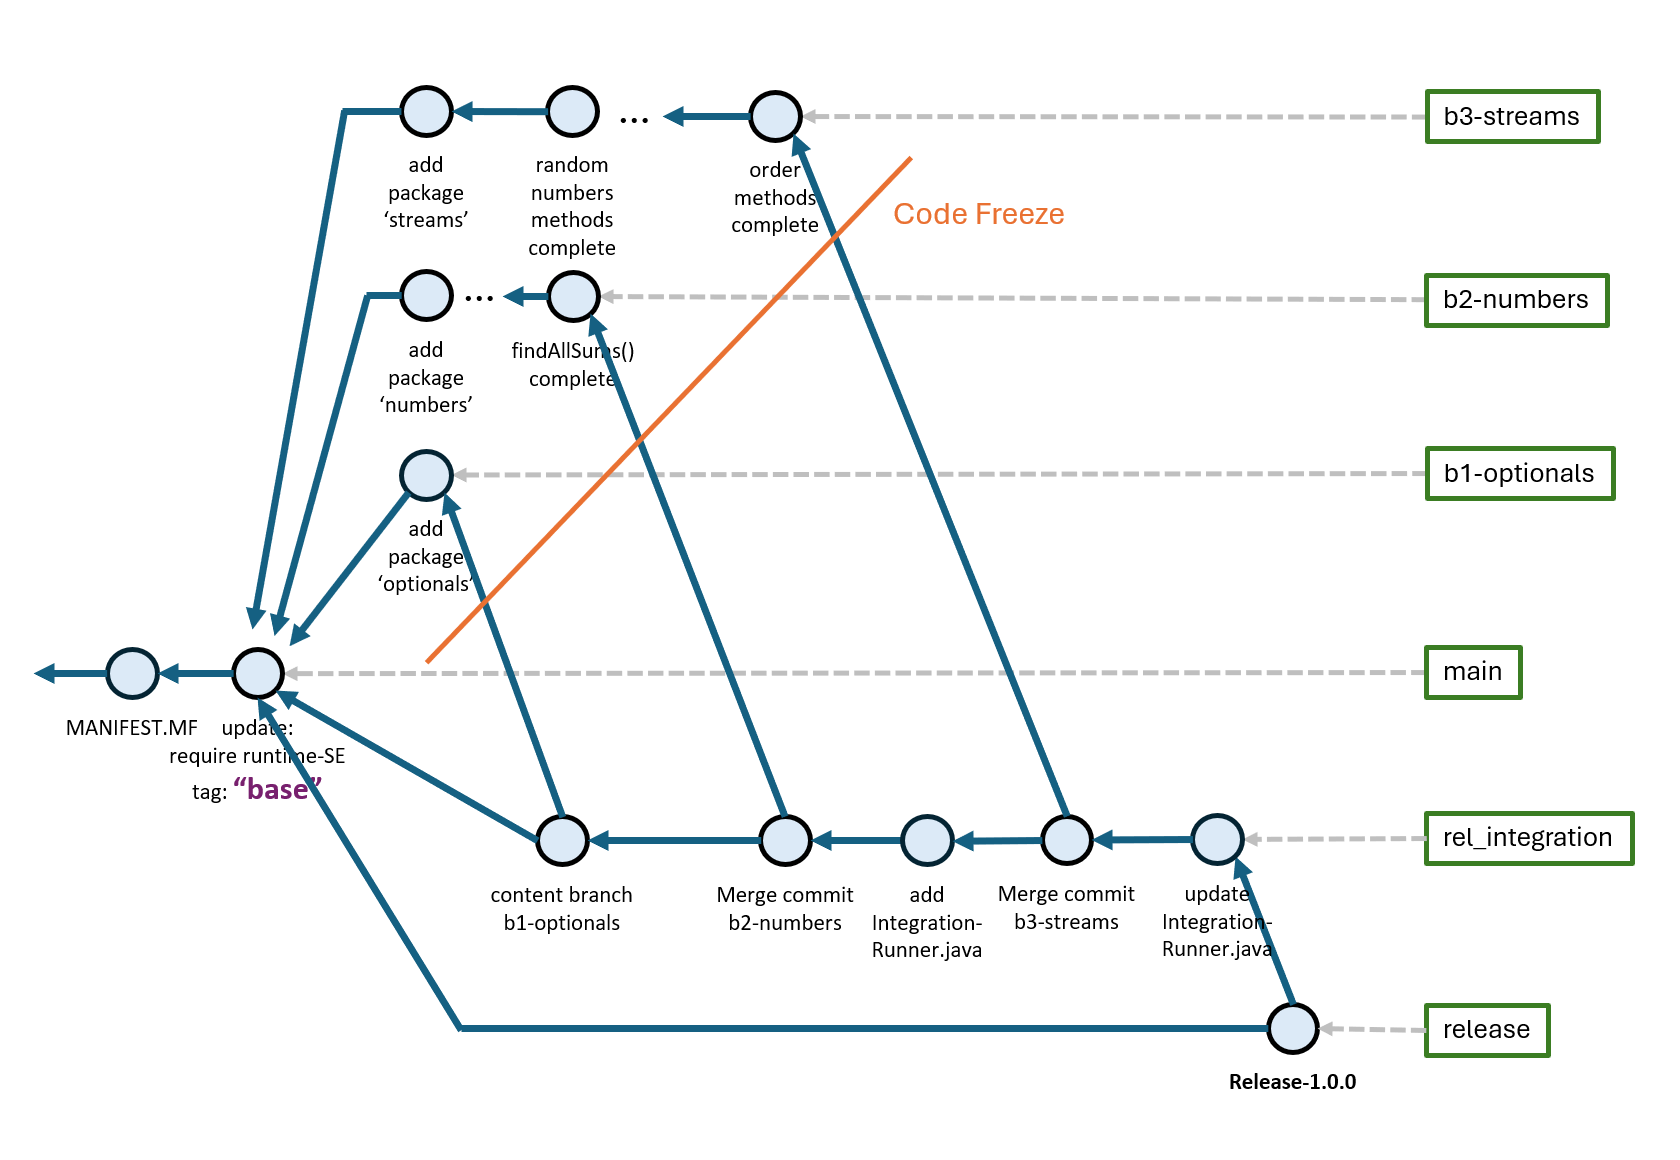
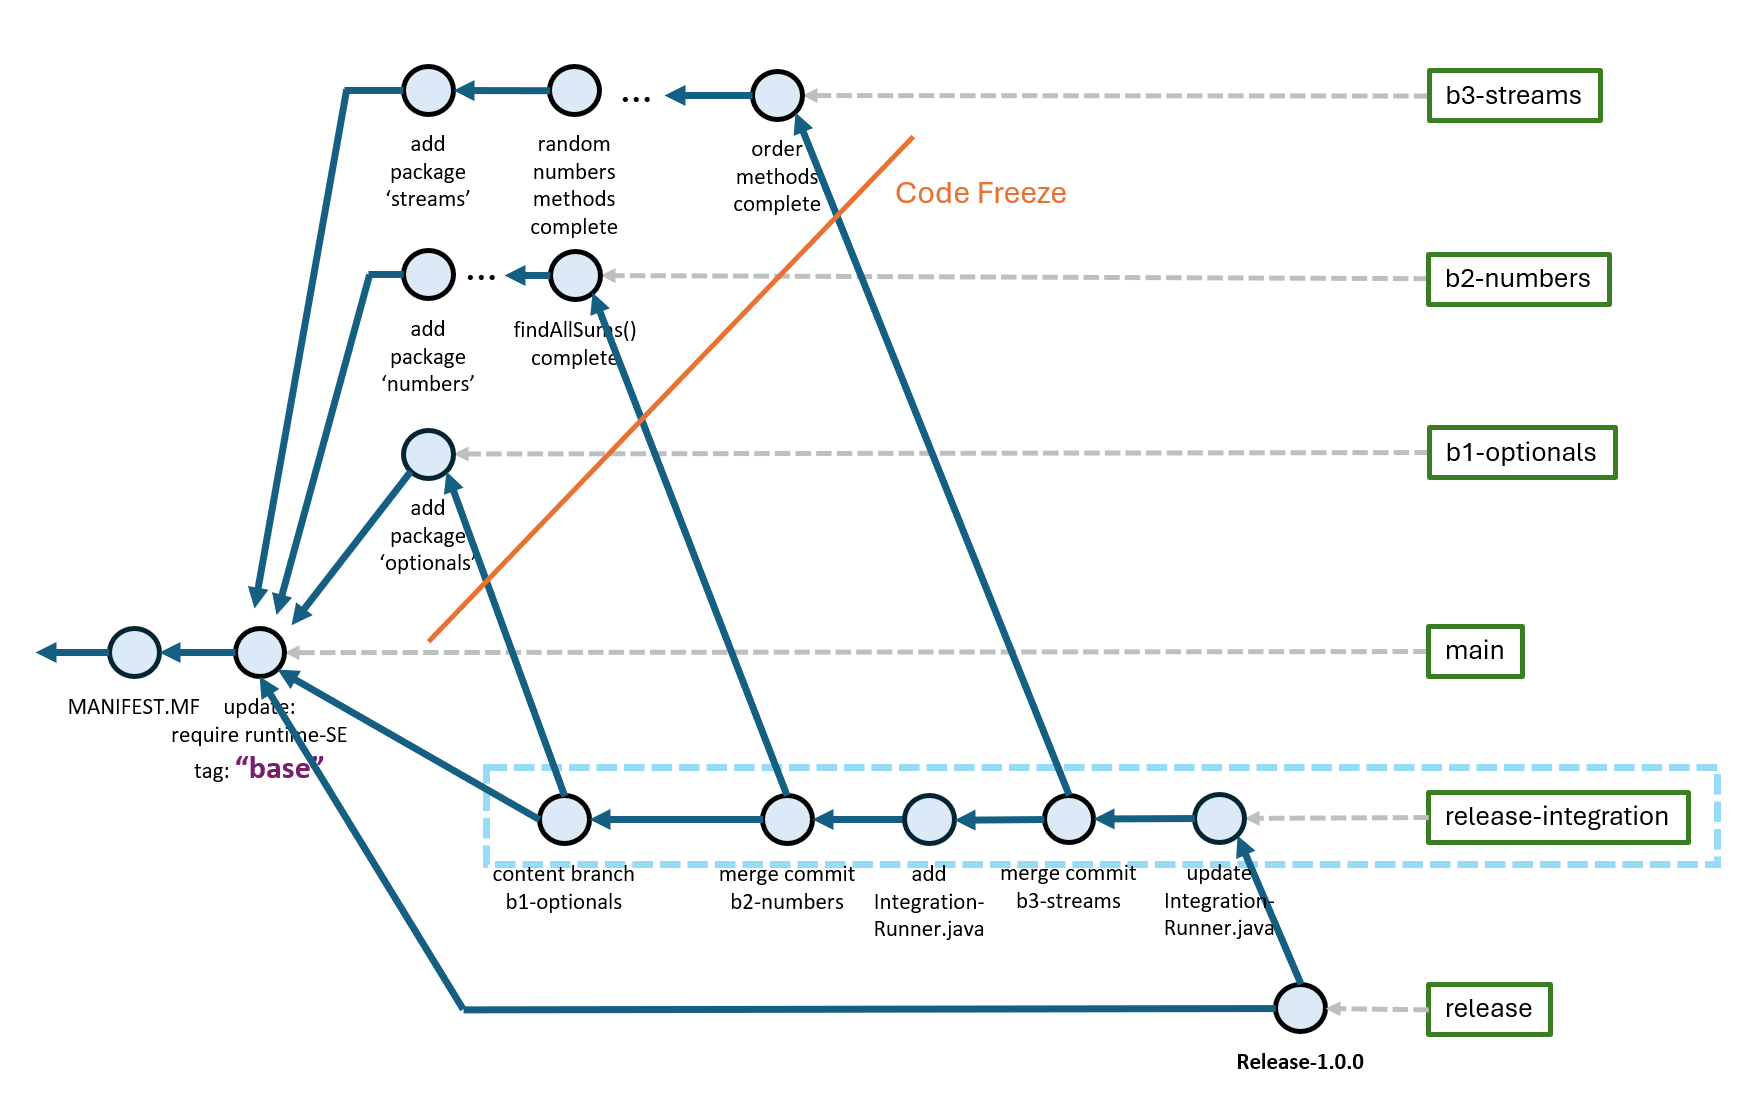
add content for release

Changed region(s): [[0.031, 0.0625, 0.9905, 0.9688], [0.619, 0.375, 0.9595, 0.4375], [0.8048, 0.5312, 0.8976, 0.625]]

diff --git a/README.md b/README.md
@@ -1005,11 +1005,13 @@ Show branches and commit logs:
 # show all branches, including fetched remote branches
 git branch -avv
 
-# show all local branches
-git log --oneline --graph git-modules main b1-optionals b2-numbers b3-streams
+# show the commit log of branch 'b3-streams'
+git log --oneline
 ```
 
-<img src="markup/final-test.png" width="600"/>
+<img src="markup/git-streams-branches.png" width="720"/>
+
+<img src="markup/git-streams-log.png" width="600"/>
 
 
 The next step of the project is *integrating* and *releasing* the parts.
@@ -1030,12 +1032,12 @@ and *(continuous)*
 [*"Integration"*](https://martinfowler.com/articles/continuousIntegration.html)
 is initiated by the team, usually on a new branch.
 
-We will create a new branch: `rel_integration` off the *"base"* commit to
+We will create a new branch: `release-integration` off the *"base"* commit to
 collect the developments on branches: *b1-optionals*, *b2-numbers* and *b3-streams*.
 
 ```sh
-# create new branch 'rel_integration' off the 'base'-commit
-git switch -c rel_integration base
+# create new branch 'release-integration' off the 'base'-commit
+git switch -c release-integration base
 
 # show that no prior content exists in the branch
 find src
@@ -1062,10 +1064,10 @@ src/tests/application/Application_0_always_pass_Tests.java
 ### Step 1: Integration branch *b1-optionals*
 
 In a first step, content of branch *b1-optionals* is carried over to branch
-*rel_integration*:
+*release-integration*:
 
 ```sh
-# carry over content from branch 'b1-optionals' to branch 'rel_integration'
+# carry over content from branch 'b1-optionals' to branch 'release-integration'
 git checkout b1-optionals -- .
 
 # show content carried over from branch 'b1-optionals'
@@ -1116,17 +1118,17 @@ Der Artikel 'Messer' konnte nicht gefunden werden
 When everything works, the first part of the integration can be committed:
 
 ```sh
-# create first commit on branch 'rel_integration'
+# create first commit on branch 'release-integration'
 git commit -m "content branch b1-optionals"
 
-# show the new commit on branch 'rel_integration'
+# show the new commit on branch 'release-integration'
 git log --oneline
 ```
 
-The commit is recorded on branch *rel_integration:*
+The commit is recorded on branch *release-integration:*
 
 ```
-50813ac (HEAD -> rel_integration) content branch b1-optionals
+50813ac (HEAD -> release-integration) content branch b1-optionals
 0889bca (tag: base, main) require module 'runtime-SE' in module-info.java
 ...
 ```
@@ -1198,10 +1200,10 @@ git log --oneline
 ```
 
 The commit log shows *all commits* of branch *b2-numbers* have been carried
-over to branch *rel_integration*.
+over to branch *release-integration*.
 
 ```
-d696b16 (HEAD -> rel_integration) merge commit b2-numbers
+d696b16 (HEAD -> release-integration) merge commit b2-numbers
 50813ac content branch b1-optionals
 72905f2 (b2-numbers) add test 641 test641_find_all_exception_null_arg
 7f62390 findAllSums() complete
@@ -1247,7 +1249,7 @@ The commit log now shows one commit for the merge from branch *b2-humbers*
 (compare to the prior commit log with 9 commits from *base*).
 
 ```
-3a8e268 (HEAD -> rel_integration) merge commit b2-numbers
+3a8e268 (HEAD -> release-integration) merge commit b2-numbers
 50813ac content branch b1-optionals
 0889bca (tag: base, main) require module 'runtime-SE' in module-info.java
 ...
@@ -1363,7 +1365,7 @@ Hello, 'SE-1 Play' (numbers)            <-- 'b2-numbers' example
 git status
 ```
 ```
-On branch rel_integration
+On branch release-integration
   (use "git restore <file>..." to discard changes in working directory)
         modified:   src/main/module-info.java               <-- modification
         modified:   src/main/numbers/NumbersRunner.java     <-- modification
@@ -1378,7 +1380,7 @@ Commit with message: `add IntegrationRunner.java` and show the commit
 log:
 
 ```
-49542d9 (HEAD -> rel_integration) add IntegrationRunner.java
+49542d9 (HEAD -> release-integration) add IntegrationRunner.java
 3a8e268 merge commit b2-numbers
 50813ac content branch b1-optionals
 0889bca (tag: base, main) require module 'runtime-SE' in module-info.java
@@ -1389,7 +1391,7 @@ log:
 
 ### Step 3: Integration branch *b3-streams*
 
-Integrate branch *b3-streams* to branch *rel_integration*:
+Integrate branch *b3-streams* to branch *release-integration*:
 
 ```sh
 # show content with 'src/main/optionals', 'src/main/numbers', 'src/main/streams',
@@ -1454,7 +1456,7 @@ Commit changes with message: `merge commit b3-streams`.
 git merge b2-numbers
 ```
 ```
-9d15c6b (HEAD -> rel_integration) merge commit b3-streams
+9d15c6b (HEAD -> release-integration) merge commit b3-streams
 49542d9 add IntegrationRunner.java
 3a8e268 merge commit b2-numbers
 50813ac content branch b1-optionals
@@ -1493,10 +1495,10 @@ Hello, 'SE-1 Play' (streams)
 
 Commit final changes with message: `update IntegrationRunner to run b3-streams examples`.
 
-The final commit log on branch *"rel_integration"* is:
+The final commit log on branch *"release-integration"* is:
 
 ```
-e9beed7 (HEAD -> rel_integration) update IntegrationRunner to run b3-streams examples
+e9beed7 (HEAD -> release-integration) update IntegrationRunner to run b3-streams examples
 9d15c6b merge commit b3-streams
 49542d9 add IntegrationRunner.java
 3a8e268 merge commit b2-numbers
@@ -1550,35 +1552,32 @@ Add file `CHANGELOG.md` to the project directory
 ```
 -->
 
-Switch to branch *rel_integration* and demonstrate:
+Switch to branch *release* and demonstrate:
 
 ```sh
-git switch rel_integration
+# switch to the 'release' branch
+git switch release
 
 # show all branches, including fetched remote branches
 git branch -avv
-
-# show all local branches
-git log --oneline --graph git-modules main b1-optionals b2-numbers b3-streams
 ```
 
-<img src="markup/final-test.png" width="600"/>
+<img src="markup/git-release-branches.png" width="720"/>
 
+
+&nbsp;
 
 ```sh
-# show the commit-log of branch 'rel_integration'
-git log --oneline
-```
-```
-e9beed7 (HEAD -> rel_integration) update IntegrationRunner to run b3-streams examples
-9d15c6b merge commit b3-streams
-49542d9 add IntegrationRunner.java
-3a8e268 merge commit b2-numbers
-50813ac content branch b1-optionals
-0889bca (tag: base, main) require module 'runtime-SE' in module-info.java
+# show the commit-log of all branches
+git log --oneline --graph main b1-optionals b2-numbers b3-streams release-integration release
 ```
 
-Run *clean project build*, *tests* and *examples:*
+<img src="markup/git-release-log.png" width="720"/>
+
+
+&nbsp;
+
+Run a *clean project build*, run *tests* and run *examples:*
 
 ```sh
 # show 'src' content
@@ -1587,7 +1586,7 @@ find src
 # perform clean project build
 mk clean compile compile-tests
 
-# run tests
+# run tests -> show 111 successful tests
 mk run-tests
 
 # run 'b1-optionals' example
@@ -1617,3 +1616,75 @@ Hello, 'SE-1 Play' (streams)
  - tenEvenRandomNumbers() -> [168, 384, 668, 16, 152, 772, 560, 488, 476, 460]
 ```
 
+Show the finally packaged artifact:
+
+```sh
+# package final release-jar, rename to 'application-1.0.0-RELEASE.jar'
+mk package
+mv tar
+
+# show the release-jar
+ls -la target
+```
+```
+total 84
+drwxr-xr-x 1     0 Jun  1 10:59 ./
+drwxr-xr-x 1     0 Jun  1 10:56 ../
+-rw-r--r-- 1 70400 Jun  1 10:59 application-1.0.0-RELEASE.jar
+drwxr-xr-x 1     0 Jun  1 10:59 classes/
+drwxr-xr-x 1     0 Jun  1 10:57 resources/
+drwxr-xr-x 1     0 Jun  1 10:57 test-classes/
+```
+
+Run examples with final release-jar:
+
+```sh
+# run 'b1-optionals' example with final release-jar
+java -jar target/application-1.0.0-RELEASE.jar b1-optionals Kanne Becher Messer
+
+# run 'b2-numbers' example with final release-jar
+java -jar target/application-1.0.0-RELEASE.jar run b2-numbers sum numbers=[1, 2, 3, 4, 5, 6]
+
+# run 'b3-streams' example with final release-jar
+java -jar target/application-1.0.0-RELEASE.jar b3-streams tenEvenRandomNumbers repeat=3
+```
+```
+$ java -jar target/application-1.0.0-RELEASE.jar b1-optionals Kanne Becher Messer
+Hello, 'SE-1 Play' (integration)
+Hello, 'SE-1 Play' (optionals)
+Der Preis für 'Kanne' ist: 1999 €-Cent
+Der Preis für 'Becher' ist: 749 €-Cent
+Der Artikel 'Messer' konnte nicht gefunden werden
+
+$ java -jar target/application-1.0.0-RELEASE.jar run b2-numbers sum numbers=[1, 2, 3, 4, 5, 6]
+Hello, 'SE-1 Play' (integration)
+Hello, 'SE-1 Play' (numbers)
+ - sum([1, 2, 3, 4, 5, 6]) -> 21
+
+$ java -jar target/application-1.0.0-RELEASE.jar b3-streams tenEvenRandomNumbers repeat=3
+Hello, 'SE-1 Play' (integration)
+Hello, 'SE-1 Play' (streams)
+ - tenEvenRandomNumbers() -> [324, 214, 66, 804, 382, 750, 518, 654, 278, 610]
+ - tenEvenRandomNumbers() -> [128, 770, 406, 380, 616, 440, 360, 752, 42, 44]
+ - tenEvenRandomNumbers() -> [642, 118, 60, 786, 610, 480, 20, 372, 114, 150]
+```
+
+The final release-jar `application-1.0.0-RELEASE.jar` can now be distributed
+through an
+[*artifact repository*](https://jfrog.com/learn/devops/software-artifact-repository)
+such as:
+
+- [*Sonatype Nexus Repository*](): A highly popular repository that supports various package formats and focuses heavily on software supply chain security and component lifecycle management.
+
+- [*JFrog Artifactory*](https://jfrog.com): A universal binary repository manager supporting over 27 package types. It acts as a caching proxy and integrates deeply with CI servers.
+
+- *GitHub Packages:* Integrated directly into GitHub, this allows teams to host software packages and container images right alongside their source code.
+
+- *AWS CodeArtifact:* A fully managed artifact repository service that integrates seamlessly with existing build tools and AWS services.
+
+- *Google Artifact Registry:* A unified repository on Google Cloud designed to manage container images and language packages (like Maven and npm) securely.
+
+[*Maven Repository*](https://mvnrepository.com)
+is the largest, global artifact repository for Java `.jar` packages. It stores
+all publicly available Java `.jar` packages since the beginning of Java (for over
+25+ years).
